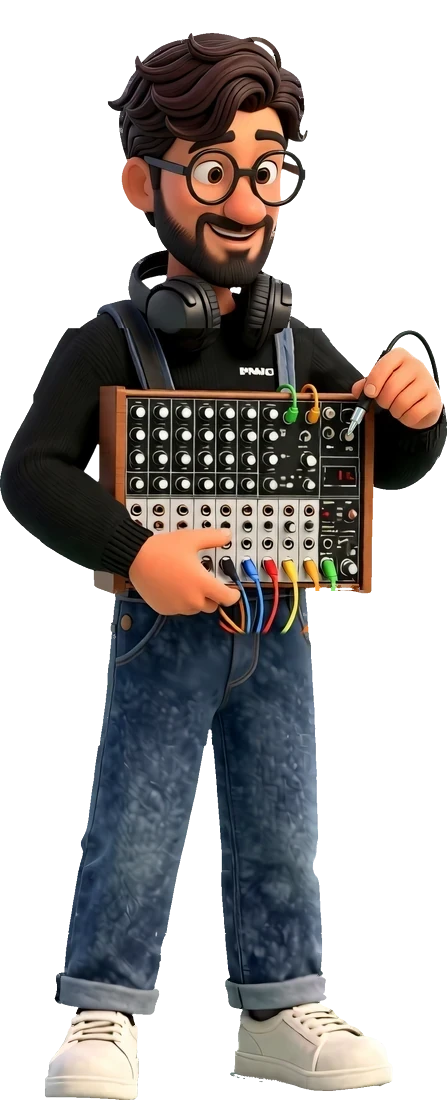
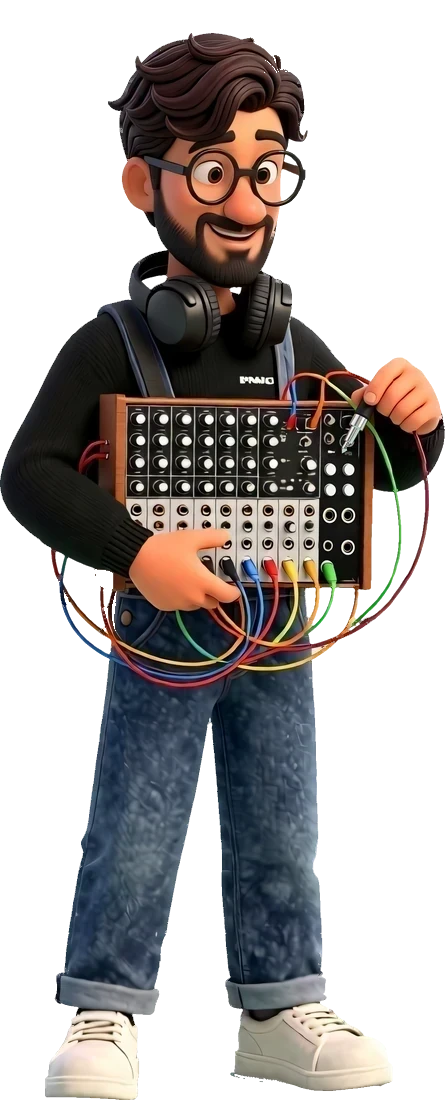
The map musician's old cable loops back with a clearer chrome jack and a simpler right panel, no curl over his head; bluer snow; NAVI tagged Social media

diff --git a/index.html b/index.html
@@ -13,36 +13,36 @@
 <link rel="preconnect" href="https://fonts.gstatic.com" crossorigin>
 <link rel="stylesheet" href="https://fonts.googleapis.com/css2?family=Archivo:wdth,wght@62..125,100..900&family=Roboto+Flex:wdth,wght@25..151,100..1000&family=Montserrat:wght@600..900&display=swap">
 <script>try{if(localStorage.getItem("sfx-lang")==="uk"){document.documentElement.lang="uk";document.documentElement.classList.add("i18n-wait")}}catch(e){}</script>
-<link rel="stylesheet" href="css/style.css?v=202610251041">
+<link rel="stylesheet" href="css/style.css?v=202610251124">
 <link rel="preload" as="image" href="assets/system/scene-forest.webp" fetchpriority="high">
 <script type="importmap">
 {
   "imports": {
     "three": "https://cdn.jsdelivr.net/npm/three@0.170.0/build/three.module.min.js",
     "three/addons/": "https://cdn.jsdelivr.net/npm/three@0.170.0/examples/jsm/",
-    "./js/audio.js": "./js/audio.js?v=202610251041",
-    "./js/boom-frame.js": "./js/boom-frame.js?v=202610251041",
-    "./js/content.js": "./js/content.js?v=202610251041",
-    "./js/disc-prints.js": "./js/disc-prints.js?v=202610251041",
-    "./js/gift.js": "./js/gift.js?v=202610251041",
-    "./js/i18n-boot.js": "./js/i18n-boot.js?v=202610251041",
-    "./js/i18n-uk.js": "./js/i18n-uk.js?v=202610251041",
-    "./js/i18n.js": "./js/i18n.js?v=202610251041",
-    "./js/main.js": "./js/main.js?v=202610251041",
-    "./js/map.js": "./js/map.js?v=202610251041",
-    "./js/music/music.js": "./js/music/music.js?v=202610251041",
-    "./js/music/sound.js": "./js/music/sound.js?v=202610251041",
-    "./js/phone-speakers.js": "./js/phone-speakers.js?v=202610251041",
-    "./js/studio-anim.js": "./js/studio-anim.js?v=202610251041",
-    "./js/studio-console.js": "./js/studio-console.js?v=202610251041",
-    "./js/studio-foley.js": "./js/studio-foley.js?v=202610251041",
-    "./js/studio-piano.js": "./js/studio-piano.js?v=202610251041",
-    "./js/team-carousel.js": "./js/team-carousel.js?v=202610251041"
+    "./js/audio.js": "./js/audio.js?v=202610251124",
+    "./js/boom-frame.js": "./js/boom-frame.js?v=202610251124",
+    "./js/content.js": "./js/content.js?v=202610251124",
+    "./js/disc-prints.js": "./js/disc-prints.js?v=202610251124",
+    "./js/gift.js": "./js/gift.js?v=202610251124",
+    "./js/i18n-boot.js": "./js/i18n-boot.js?v=202610251124",
+    "./js/i18n-uk.js": "./js/i18n-uk.js?v=202610251124",
+    "./js/i18n.js": "./js/i18n.js?v=202610251124",
+    "./js/main.js": "./js/main.js?v=202610251124",
+    "./js/map.js": "./js/map.js?v=202610251124",
+    "./js/music/music.js": "./js/music/music.js?v=202610251124",
+    "./js/music/sound.js": "./js/music/sound.js?v=202610251124",
+    "./js/phone-speakers.js": "./js/phone-speakers.js?v=202610251124",
+    "./js/studio-anim.js": "./js/studio-anim.js?v=202610251124",
+    "./js/studio-console.js": "./js/studio-console.js?v=202610251124",
+    "./js/studio-foley.js": "./js/studio-foley.js?v=202610251124",
+    "./js/studio-piano.js": "./js/studio-piano.js?v=202610251124",
+    "./js/team-carousel.js": "./js/team-carousel.js?v=202610251124"
   }
 }
 </script>
-<script type="module" src="js/i18n-boot.js?v=202610251041"></script>
-<script type="module" src="js/main.js?v=202610251041"></script>
+<script type="module" src="js/i18n-boot.js?v=202610251124"></script>
+<script type="module" src="js/main.js?v=202610251124"></script>
 </head>
 <body>
 <a class="skip" href="#main">Skip to content</a>
@@ -170,7 +170,7 @@
             <section class="bay" data-bay="music" aria-labelledby="bay-music">
               <h3 class="bay__title" id="bay-music"><span class="bay__dot" data-bay-dot="music" aria-hidden="true"></span>Music</h3>
               <div class="bay__desk">
-                <img class="bay__person bay__person--mix" src="assets/team/mix-map-560.webp" srcset="assets/team/mix-map-560.webp 227w, assets/team/mix-map.webp 447w" sizes="150px" alt="Illustration: a musician with a small analog synthesizer and patch cables" width="447" height="1100" loading="lazy" decoding="async">
+                <img class="bay__person bay__person--mix" src="assets/team/mix-map-560.webp" srcset="assets/team/mix-map-560.webp 226w, assets/team/mix-map.webp 445w" sizes="150px" alt="Illustration: a musician with a small analog synthesizer and patch cables" width="445" height="1100" loading="lazy" decoding="async">
                 <div class="principle__art principle__art--play" id="card-music" data-scene="keys" tabindex="0" role="group" aria-label="A small keyboard you can play" aria-describedby="piano-help"><span class="principle__hint" aria-hidden="true">Play me</span><span class="visually-hidden" id="piano-help">Click or tap the keys. With the keyboard, use A to L for white keys and W, E, T, Y, U, O, P for black keys.</span><img class="principle__img" src="assets/studio/music-640.webp" srcset="assets/studio/music-640.webp 640w, assets/studio/music-1024.webp 1024w" sizes="(max-width: 760px) 92vw, 300px" width="1024" height="768" loading="lazy" decoding="async" alt=""></div>
                 <button class="zoom-btn" type="button" data-zoom-open="card-music" data-zoom-label="Music" aria-label="Open the keyboard larger"><svg viewBox="0 0 24 24" aria-hidden="true"><path d="M14 4h6v6M20 4l-7 7M10 20H4v-6M4 20l7-7"/></svg></button>
               </div>

diff --git a/js/content.js b/js/content.js
@@ -30,7 +30,7 @@ export const SITE = {
 //   link:    { href, label } the official page, shown under the caption (opens in a new tab)
 //   print:   the motif printed on the record, under its grooves (js/disc-prints.js): drawn only from what this card
 //            says (the game, the genre, the company's line), never a client logo or text; none -> the neutral 'sound' print
-//   work:    what our team did there, as the owner said (round S): 'events' or 'gameplay'; it is the small
+//   work:    what our team did there, as the owner said (round S): 'events', 'gameplay' or (round X) 'social'; it is the small
 //            tag on the sleeve and in the track list (no tag when it isn't set)
 export const PROJECTS = [
   { id: 'rj-games', kind: 'client', work: 'gameplay', title: 'RJ Games', project: 'Puzzle Breakers', vinyl: '#ff7a2f', cover: '#0f332f', print: 'puzzle', art: 'assets/covers/rj-games.webp', logo: 'assets/clients/rj-games.svg',
@@ -45,7 +45,7 @@ export const PROJECTS = [
     company: 'Free pirate-themed city-building and strategy MMO on Steam, developed and published by Moonmana.',
     ours: 'Our team has worked on Ultimate Pirates.',
     link: { href: 'https://store.steampowered.com/app/2628460/Ultimate_pirates/', label: 'Ultimate Pirates on Steam' } },
-  { id: 'navi', kind: 'client', work: 'gameplay', title: 'NAVI', vinyl: '#29b6f0', cover: '#ffee00', print: 'crosshair', art: 'assets/covers/navi.webp', logo: 'assets/clients/navi.svg',
+  { id: 'navi', kind: 'client', work: 'social', title: 'NAVI', vinyl: '#29b6f0', cover: '#ffee00', print: 'crosshair', art: 'assets/covers/navi.webp', logo: 'assets/clients/navi.svg',
     company: 'Esports club with teams in Counter-Strike 2, Dota 2, VALORANT, League of Legends and other games.' },
   { id: 'valve', kind: 'client', work: 'events', title: 'Valve', vinyl: '#ffd02e', cover: '#1b1b1f', print: 'steam', art: 'assets/covers/valve.webp', logo: 'assets/clients/valve.svg',
     company: 'Game developer behind Half-Life, Counter-Strike 2 and Dota 2, and maker of the Steam platform and Steam Deck.' },

diff --git a/js/studio-foley.js b/js/studio-foley.js
@@ -124,13 +124,14 @@ function drawSurface(s, g, front, defs, uid) {
   } else {   // snow
     const gid = `foley-snow-${uid}`;
     const lg = el('linearGradient', { id: gid, x1: 0, y1: 0, x2: 0, y2: 1 }, defs);
-    el('stop', { offset: '0.35', 'stop-color': '#f8fcff' }, lg);
-    el('stop', { offset: '1', 'stop-color': '#cfe6f8' }, lg);
+    // round X (the owner: the snow got lost on the light card): a cold blue snow, light on top, deeper blue below
+    el('stop', { offset: '0', 'stop-color': '#d8ebfc' }, lg);
+    el('stop', { offset: '1', 'stop-color': '#86bbec' }, lg);
     fill(`url(#${gid})`);
-    el('path', { d: shapeD, fill: 'none', stroke: '#b4d6ef', 'stroke-width': 5 }, body);
+    el('path', { d: shapeD, fill: 'none', stroke: '#64a5de', 'stroke-width': 5 }, body);
     for (let k = 0; k < 5; k++) {
       const x = s.x0 + 22 + r() * (PW - 44), y = TOP + 40 + r() * 130, a = 5 + r() * 4;
-      el('path', { d: `M${x} ${y - a}V${y + a}M${x - a} ${y}H${x + a}`, stroke: '#a9d1ef', 'stroke-width': 3, 'stroke-linecap': 'round' }, body);
+      el('path', { d: `M${x} ${y - a}V${y + a}M${x - a} ${y}H${x + a}`, stroke: '#ffffff', 'stroke-width': 3, 'stroke-linecap': 'round', opacity: 0.85 }, body);
     }
   }
   return s;
@@ -175,7 +176,7 @@ export function buildFoleyStage(svg, defs, card) {
   for (const s of SURFACES) {
     s.parts = [];
     const n = { dirt: 5, sand: 8, grass: 0, snow: 5 }[s.id];
-    if (s.id === 'snow') s.print = el('ellipse', { cx: s.cx, cy: TOP + 8, rx: 132, ry: 11, fill: '#c3dff4', opacity: 0 }, s.back);
+    if (s.id === 'snow') s.print = el('ellipse', { cx: s.cx, cy: TOP + 8, rx: 132, ry: 11, fill: '#8bbde9', opacity: 0 }, s.back);
     for (let k = 0; k < n; k++) {
       const c = s.id === 'dirt' ? el('circle', { r: 9, fill: '#a87b56', opacity: 0 }, s.fx)
         : s.id === 'sand' ? el('circle', { r: 4.5, fill: '#e0b05a', opacity: 0 }, s.fx)

diff --git a/css/style.css b/css/style.css
@@ -1325,7 +1325,7 @@ ul { padding: 0; list-style: none; }
   height: calc(var(--fig) * var(--k)); width: auto; max-width: none; pointer-events: none; user-select: none;
 }
 [data-bay="sfx"] .bay__desk { --k: 1.12; --waist: .53; --person-x: 7%; }   /* round U2: her map pose with the handheld recorder (rec-map.webp) */
-[data-bay="music"] .bay__desk { --k: 1.08; --waist: .56; --person-x: calc(50% - var(--fig) * var(--k) * .2032); }   /* round X: his map pose with the compact modular synth (no hanging cables) (mix-map.webp, the case on his back removed), seated lower and centred over the card at every width (.2032: half his picture's width, 447/1100/2) */
+[data-bay="music"] .bay__desk { --k: 1.08; --waist: .56; --person-x: calc(50% - var(--fig) * var(--k) * .2023); }   /* round X: his map pose with the compact modular synth and its hanging cable loops (mix-map.webp, the case on his back removed), seated lower and centred over the card at every width (.2023: half his picture's width, 445/1100/2) */
 /* stage 03: the tester stands beside the Game Boy */
 .bay__desk--side { display: grid; grid-template-columns: auto minmax(0, 1fr); align-items: end; gap: 6px; padding-top: 0; }
 .bay__desk--side .bay__person { position: relative; left: auto; top: auto; margin-bottom: -2px; height: calc(var(--fig) * .98); }

diff --git a/js/main.js b/js/main.js
@@ -249,7 +249,7 @@ const recordOurs = (p) => (p.kind === 'studio' ? '' : p.ours || (p.project ? `Ou
 
 const TILT = [-2, 1.5, -1, 2, -1.5, 1, -2, 1.5, -1];
 // round S: the tag on a sleeve says what our team did there (PROJECTS[].work), not a catalogue number
-const WORK_TAG = { events: 'Events', gameplay: 'Gameplay' };
+const WORK_TAG = { events: 'Events', gameplay: 'Gameplay', social: 'Social media' };   // round X: NAVI is social media (the owner)
 const workTag = (p) => WORK_TAG[p.work] || '';
 function recordMarkup(p, i) {
   const ours = recordOurs(p);

diff --git a/js/i18n-uk.js b/js/i18n-uk.js
@@ -85,6 +85,7 @@ export const UK = {
   'Track list': 'Список треків',
   'Events': 'Івенти',
   'Gameplay': 'Геймплей',
+  'Social media': 'Соцмережі',
   'Our part': 'Наша частина',
   'Your game could be the next record on this shelf.': 'Ваша гра може стати наступною платівкою на цій полиці.',
   'Projects our team has worked on. They don’t claim that these games use our audio system.':
